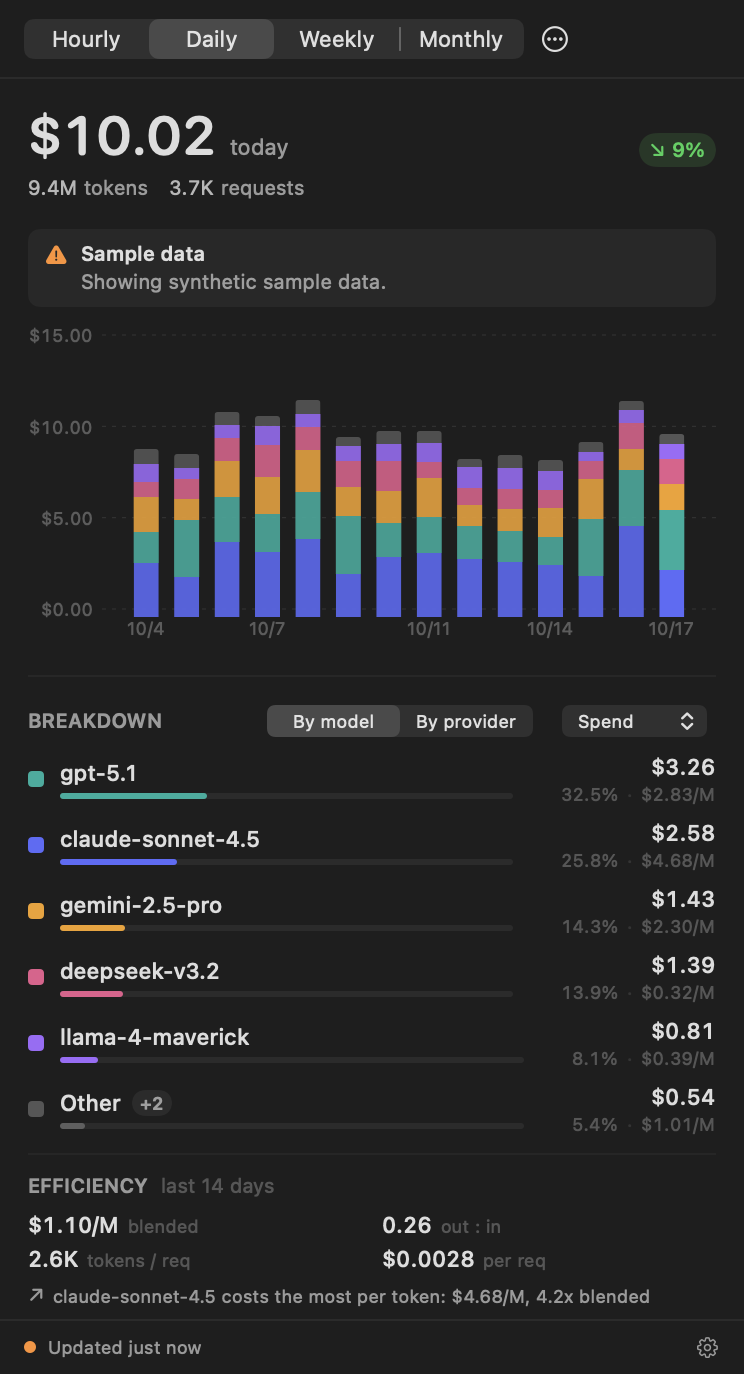
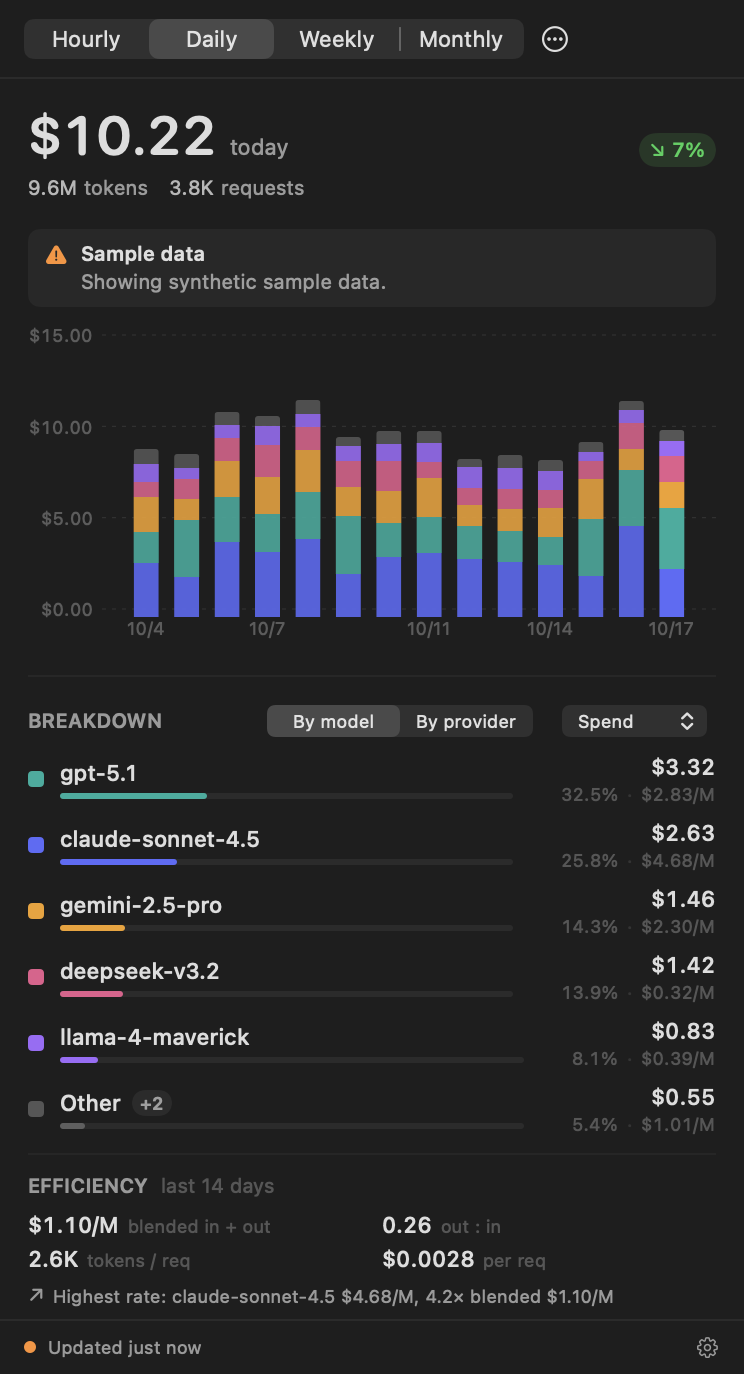
fix: state the rates behind the efficiency comparison
"claude-sonnet-4.5 costs the most per token" described a blended
effective rate as if it were a list price, and "4.2x blended" pointed
at a word rather than a number. The line now prints both rates, the
stat caption names the token kinds the rate averages, and tooltips
carry the definition and the selection floor.

Screen readers get spoken forms of the rate and the outlier line, since
"/M" and "x" do not read as units.

diff --git a/Sources/TokenMeterKit/Core/TokenEfficiency.swift b/Sources/TokenMeterKit/Core/TokenEfficiency.swift
@@ -47,6 +47,11 @@ public struct TokenEfficiency: Sendable, Hashable {
             costPerMillionTokens.map(Money.perMillion)
         }
 
+        /// Spoken form of `costPerMillionTokensLabel`, for screen readers.
+        public var costPerMillionTokensSpoken: String? {
+            costPerMillionTokens.map { "\(Money.currency($0)) per million tokens" }
+        }
+
         public var tokensPerRequest: Double? {
             guard requests > 0 else { return nil }
             return Double(tokens) / Double(requests)
@@ -107,6 +112,12 @@ public struct TokenEfficiency: Sendable, Hashable {
         costPerMillionTokens.map(Money.perMillion)
     }
 
+    /// Spoken form of `costPerMillionTokensLabel`: screen readers pronounce
+    /// "/M" as "slash M", which is not a price anyone recognises.
+    public var costPerMillionTokensSpoken: String? {
+        costPerMillionTokens.map { "\(Money.currency($0)) per million tokens" }
+    }
+
     public var outputRatio: Double? {
         guard promptTokens > 0 else { return nil }
         return Double(completionTokens) / Double(promptTokens)
@@ -155,6 +166,44 @@ public struct TokenEfficiency: Sendable, Hashable {
                 (lhs.costPerMillionTokens ?? 0) < (rhs.costPerMillionTokens ?? 0)
             }
     }
+
+    /// The outlier line, phrased so both sides of the comparison are on screen:
+    /// the series' effective rate and the window average it is measured
+    /// against. "Most expensive per token" alone invites reading the figure as
+    /// a list price rather than an average of what was billed.
+    public var priciestNote: String? {
+        guard let row = priciest, let rate = row.costPerMillionTokensLabel else { return nil }
+        guard let multiple = row.rateMultiple, let blended = costPerMillionTokensLabel else {
+            return "Highest rate: \(row.label) \(rate)"
+        }
+        let factor = String(format: "%.1f", multiple)
+        return "Highest rate: \(row.label) \(rate), \(factor)× blended \(blended)"
+    }
+
+    /// Spoken form of `priciestNote`, for the accessibility label.
+    public var priciestNoteSpoken: String? {
+        guard let row = priciest, let rate = row.costPerMillionTokensSpoken else { return nil }
+        guard let multiple = row.rateMultiple, let blended = costPerMillionTokensSpoken else {
+            return "Highest rate: \(row.label) at \(rate)"
+        }
+        let factor = String(format: "%.1f", multiple)
+        return "Highest rate: \(row.label) at \(rate), \(factor) times the window's blended \(blended)"
+    }
+
+    /// Definition of the blended rate for tooltips and screen readers. It is an
+    /// average of what was billed across prompt and completion volume, not a
+    /// published price, so the copy has to say so.
+    public static let blendedRateDefinition =
+        "Window spend ÷ prompt + completion tokens × 1,000,000. "
+            + "Billed amounts, not list prices; completion tokens cost more, "
+            + "so a model that writes longer reads higher at the same price list."
+
+    /// Why this row was named, for the tooltip: the comparison is against the
+    /// window's blended rate, and the floor keeps rounding artefacts from a
+    /// handful of tokens out of the ranking.
+    public static let priciestRule =
+        "Highest effective rate among series holding at least 1% of the window's tokens. "
+            + "Effective rate = spend ÷ (prompt + completion tokens) × 1,000,000."
 }
 
 public extension SpendReport {

diff --git a/Sources/TokenMeter/Views/TokenEfficiencyView.swift b/Sources/TokenMeter/Views/TokenEfficiencyView.swift
@@ -2,8 +2,8 @@ import SwiftUI
 import TokenMeterKit
 
 /// Window-wide token economics: what a million tokens costs, how much of each
-/// request is prompt versus answer, and which model charges the most for the
-/// tokens it delivers.
+/// request is prompt versus answer, and which model carries the highest
+/// effective rate against the window average.
 ///
 /// Everything here covers the whole displayed window, so the caption says so;
 /// these figures deliberately do not track the in-progress headline.
@@ -27,7 +27,7 @@ struct TokenEfficiencyView: View {
 
             VStack(spacing: 3) {
                 HStack(spacing: 10) {
-                    stat(efficiency.costPerMillionTokensLabel, "blended")
+                    stat(efficiency.costPerMillionTokensLabel, "blended in + out")
                     stat(efficiency.outputRatioValueLabel, "out : in")
                 }
                 HStack(spacing: 10) {
@@ -35,9 +35,10 @@ struct TokenEfficiencyView: View {
                     stat(efficiency.costPerRequestLabel, "per req")
                 }
             }
+            .help(TokenEfficiency.blendedRateDefinition)
 
-            if let priciest = efficiency.priciest, let rate = priciest.costPerMillionTokensLabel {
-                priciestNote(priciest, rate: rate)
+            if let note = efficiency.priciestNote {
+                priciestNote(note)
             }
         }
         .accessibilityElement(children: .combine)
@@ -55,29 +56,23 @@ struct TokenEfficiencyView: View {
         .frame(maxWidth: .infinity, alignment: .leading)
     }
 
-    private func priciestNote(_ row: TokenEfficiency.Row, rate: String) -> some View {
+    private func priciestNote(_ text: String) -> some View {
         HStack(alignment: .top, spacing: 4) {
             Image(systemName: "arrow.up.right")
                 .font(.system(size: 8, weight: .bold))
                 .padding(.top, 1)
-            Text(noteText(row, rate: rate))
+            Text(text)
                 .font(.system(size: 9))
                 .fixedSize(horizontal: false, vertical: true)
         }
         .foregroundStyle(.secondary)
-    }
-
-    private func noteText(_ row: TokenEfficiency.Row, rate: String) -> String {
-        guard let multiple = row.rateMultiple else {
-            return "\(row.label) costs the most per token, \(rate)"
-        }
-        return "\(row.label) costs the most per token: \(rate), \(String(format: "%.1f", multiple))x blended"
+        .help(TokenEfficiency.priciestRule)
     }
 
     private var accessibilitySummary: String {
         var parts: [String] = []
-        if let rate = efficiency.costPerMillionTokensLabel {
-            parts.append("Blended rate \(rate)")
+        if let rate = efficiency.costPerMillionTokensSpoken {
+            parts.append("Blended rate \(rate) across prompt and completion tokens")
         }
         if let ratio = efficiency.outputRatioLabel {
             parts.append(ratio)
@@ -88,6 +83,10 @@ struct TokenEfficiencyView: View {
         if let cost = efficiency.costPerRequestLabel {
             parts.append("\(cost) per request")
         }
-        return "Token efficiency, \(caption). \(parts.joined(separator: ", "))."
+        var summary = "Token efficiency, \(caption). \(parts.joined(separator: ", "))."
+        if let note = efficiency.priciestNoteSpoken {
+            summary += " \(note)."
+        }
+        return summary
     }
 }

diff --git a/Tests/TokenMeterKitTests/TokenEfficiencyTests.swift b/Tests/TokenMeterKitTests/TokenEfficiencyTests.swift
@@ -352,6 +352,31 @@ struct TokenEfficiencyTests {
         #expect(noisy.efficiency.priciest?.label == "model-b")
     }
 
+    @Test("The outlier note states both rates it compares")
+    func priciestNoteCopy() throws {
+        let efficiency = Self.report().efficiency
+        let row = try #require(efficiency.rows.first { $0.label == "model-b" })
+        let note = try #require(efficiency.priciestNote)
+        let rowRate = try #require(row.costPerMillionTokensLabel)
+        let blended = try #require(efficiency.costPerMillionTokensLabel)
+        let multiple = try #require(row.rateMultiple)
+
+        #expect(note.contains(row.label))
+        #expect(note.contains(rowRate))
+        #expect(note.contains(blended))
+        #expect(note.contains(String(format: "%.1f×", multiple)))
+        #expect(note.hasPrefix("Highest rate"))
+        // "per token" without a denominator reads as a list price; the copy has
+        // to keep the billed-average framing visible.
+        #expect(!note.contains("most per token"))
+
+        // Screen readers should not hear "/M".
+        let spoken = try #require(efficiency.priciestNoteSpoken)
+        #expect(!spoken.contains("/M"))
+        #expect(spoken.contains("per million tokens"))
+        #expect(spoken.contains("times the window's blended"))
+    }
+
     @Test("A single series has no meaningful outlier to report")
     func singleSeriesHasNoOutlier() {
         var calendar = Calendar(identifier: .gregorian)

diff --git a/Sources/TokenMeter/Views/BreakdownList.swift b/Sources/TokenMeter/Views/BreakdownList.swift
@@ -76,7 +76,7 @@ struct BreakdownList: View {
             parts.append("\(row.requests.groupedString) requests")
         }
         if let rate = row.costPerMillionTokens {
-            parts.append("\(Money.perMillion(rate)) blended")
+            parts.append("\(Money.perMillion(rate)) blended in + out")
         }
         if let detail = row.series.detail {
             parts.append(detail)

diff --git a/docs/READING_THE_NUMBERS.md b/docs/READING_THE_NUMBERS.md
@@ -66,7 +66,9 @@ rate = ─────────────────────── × 
          tokens in the window
 ```
 
-Shown as `$4.68/M`. Two caveats govern its interpretation:
+Shown as `$4.68/M` and labelled **blended in + out** in the app, so the rate
+is not mistaken for a per-side price or a list price. Hovering the block repeats
+the definition. Two caveats govern its interpretation:
 
 - **It is blended across input and output pricing.** Providers bill completion
   tokens several times higher than prompt tokens, so the blended rate is a
@@ -124,8 +126,13 @@ cheaper per call.
 ## The priciest-model line
 
 ```
-claude-sonnet-4.5 costs the most per token: $4.68/M, 4.2x blended
+Highest rate: claude-sonnet-4.5 $4.68/M, 4.2× blended $1.10/M
 ```
+
+The line names both sides of the comparison rather than calling a model "most
+expensive per token": the series' effective rate, and the window's blended rate
+the multiple is measured against. Both are averages of what was billed for
+prompt and completion tokens in this window, not published prices.
 
 Selection rule: highest blended rate among series holding at least 1% of the
 window's tokens, with "Other" excluded. The floor exists because a series with a
